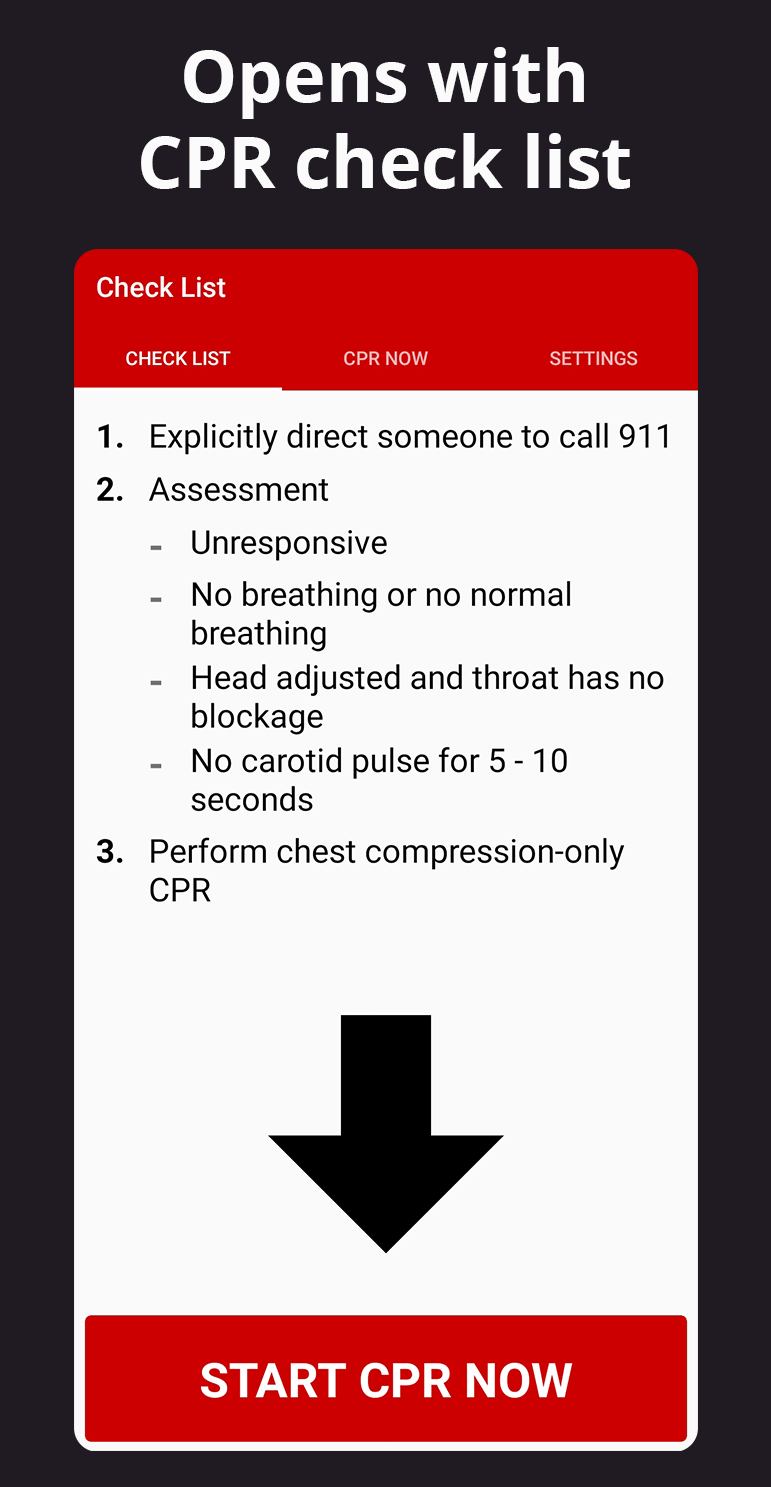
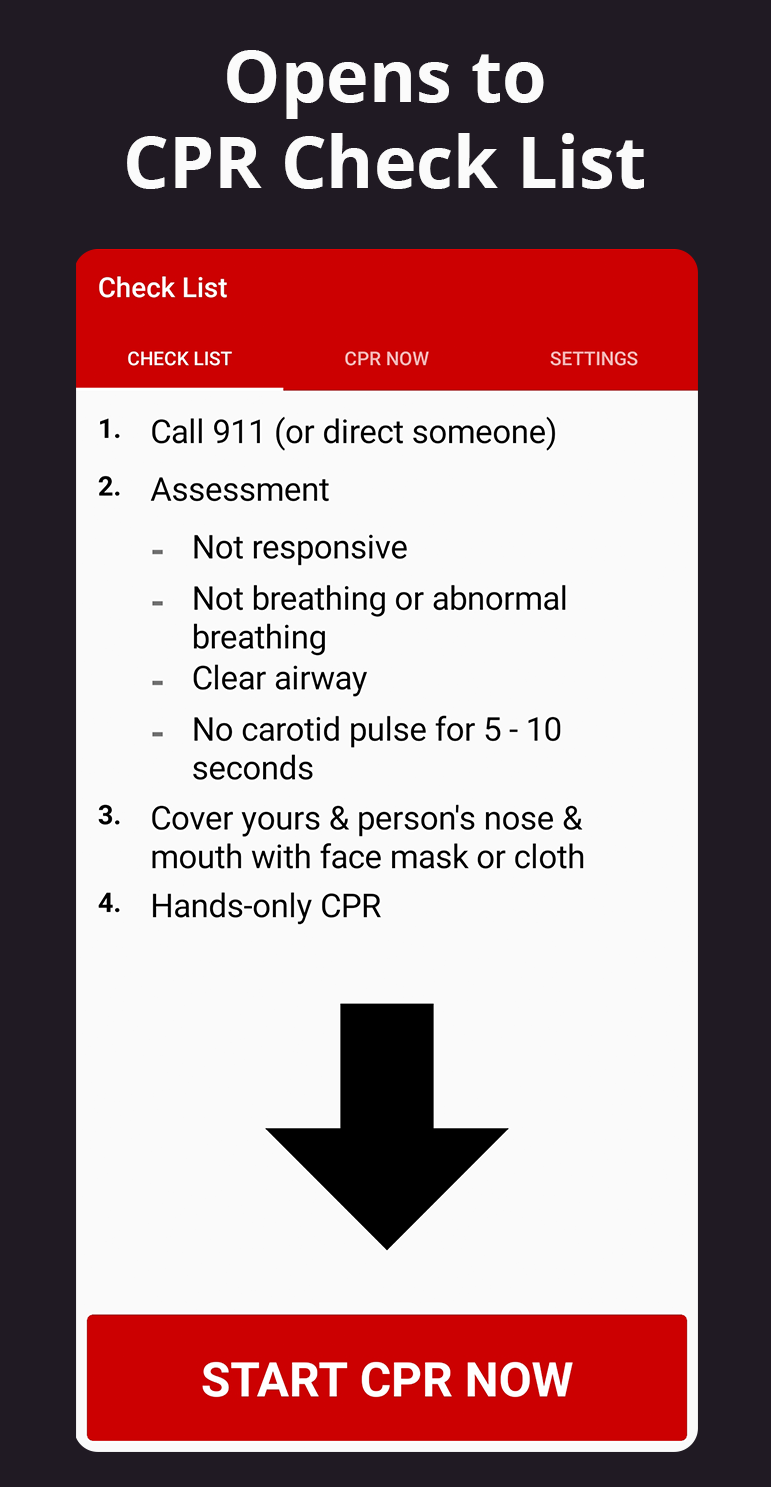
Update images + add gif

diff --git a/README.md b/README.md
@@ -4,6 +4,7 @@ Hands-only (chest compression-only) CPR assistant for mobile. Assisting user wit
 
 **Features:**
 
+- From app open to start in 3 taps
 - Visual and audio cues
 - Completely offline
 - CPR check list
@@ -17,12 +18,14 @@ Hands-only (chest compression-only) CPR assistant for mobile. Assisting user wit
 
 Google Play and the Google Play logo are trademarks of Google LLC.
 
-## Screenshots
+## Screenshots/Gif
 
 <p float="left">
+  <img src="https://media.giphy.com/media/4jlB2BXw4u7rZkn2vk/giphy.gif" alt="GIF of CPR Now" />
+  <br/>
   <img src="/images/1 check list.png" alt="CPR check list" width="200px" />
   <img src="/images/2 ui.png" alt="Main page: CPR cpm/bpm timer" width="200px" />
-  <img src="/images/4 cues.png" alt="CPR timer started and screenshotted on beat" width="200px" />
+  <img src="/images/3 cues.png" alt="CPR timer started and screenshotted on beat" width="200px" />
 </p>
 
 ## Frameworks/Libraries used
